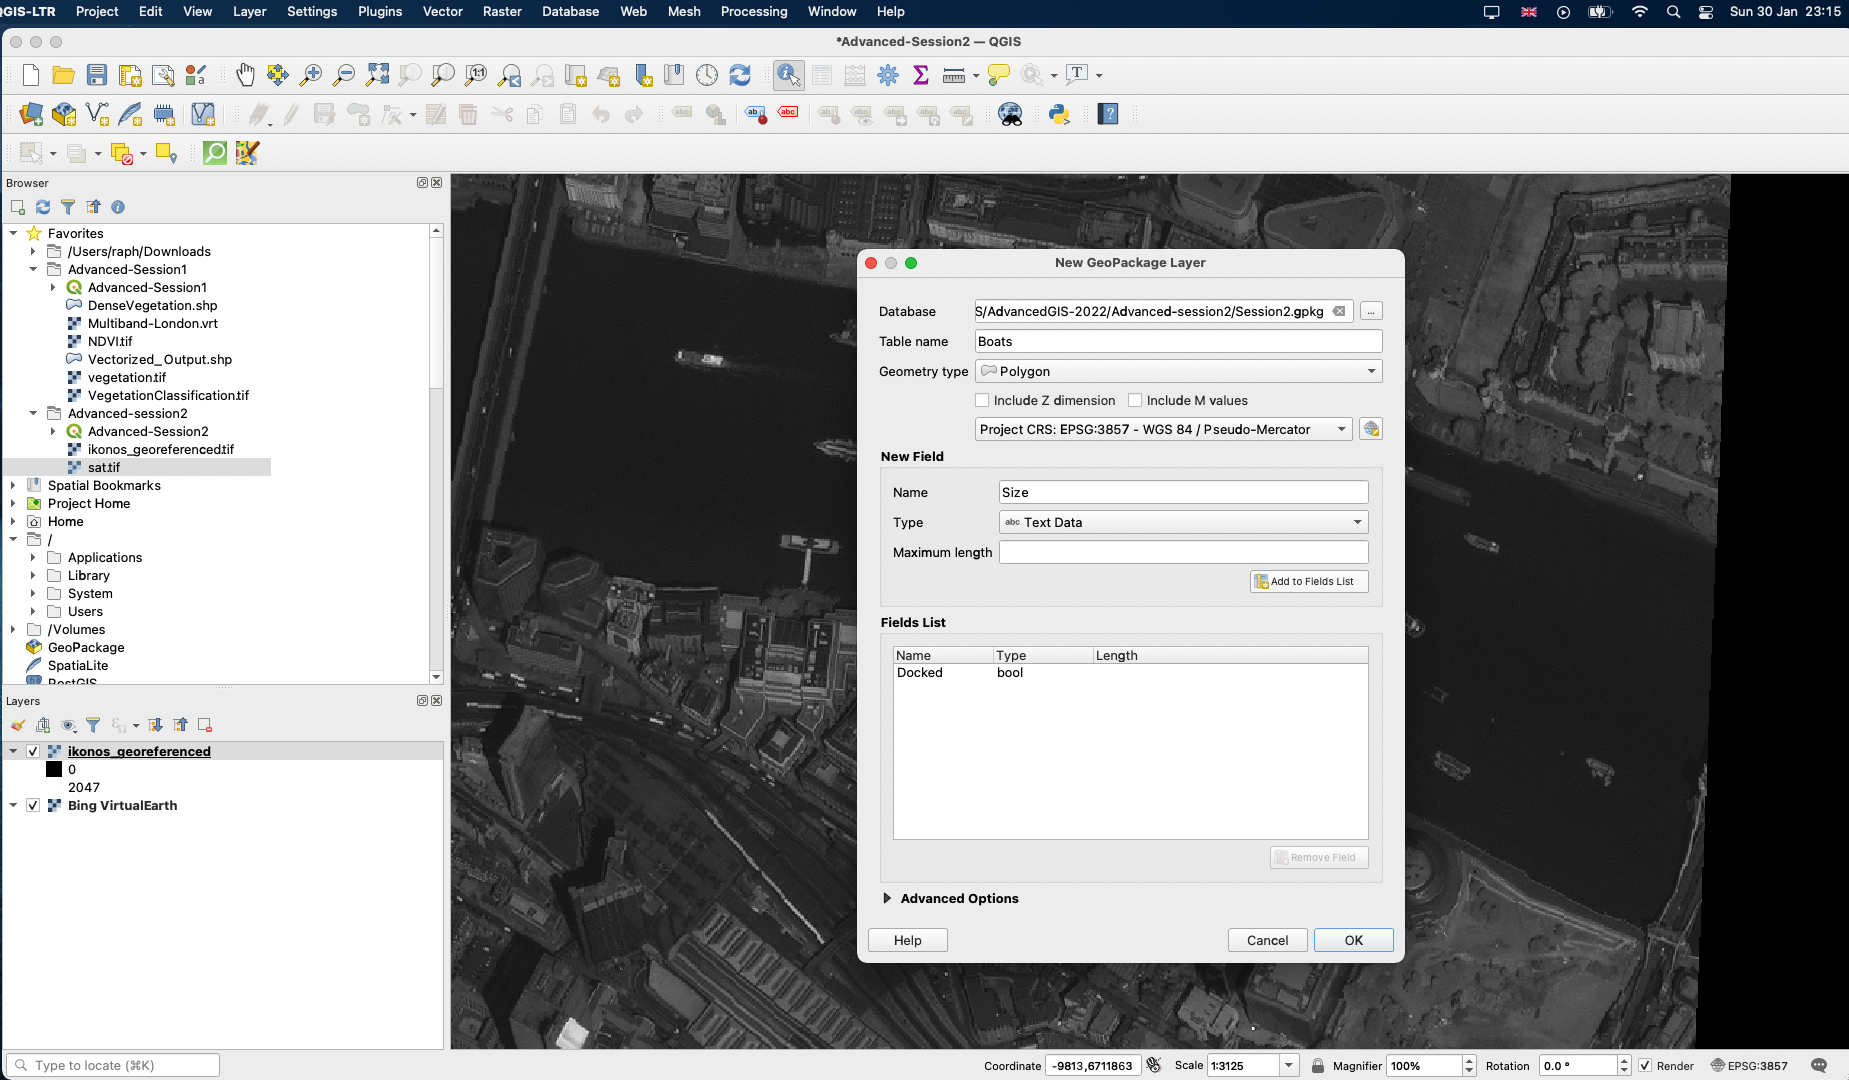
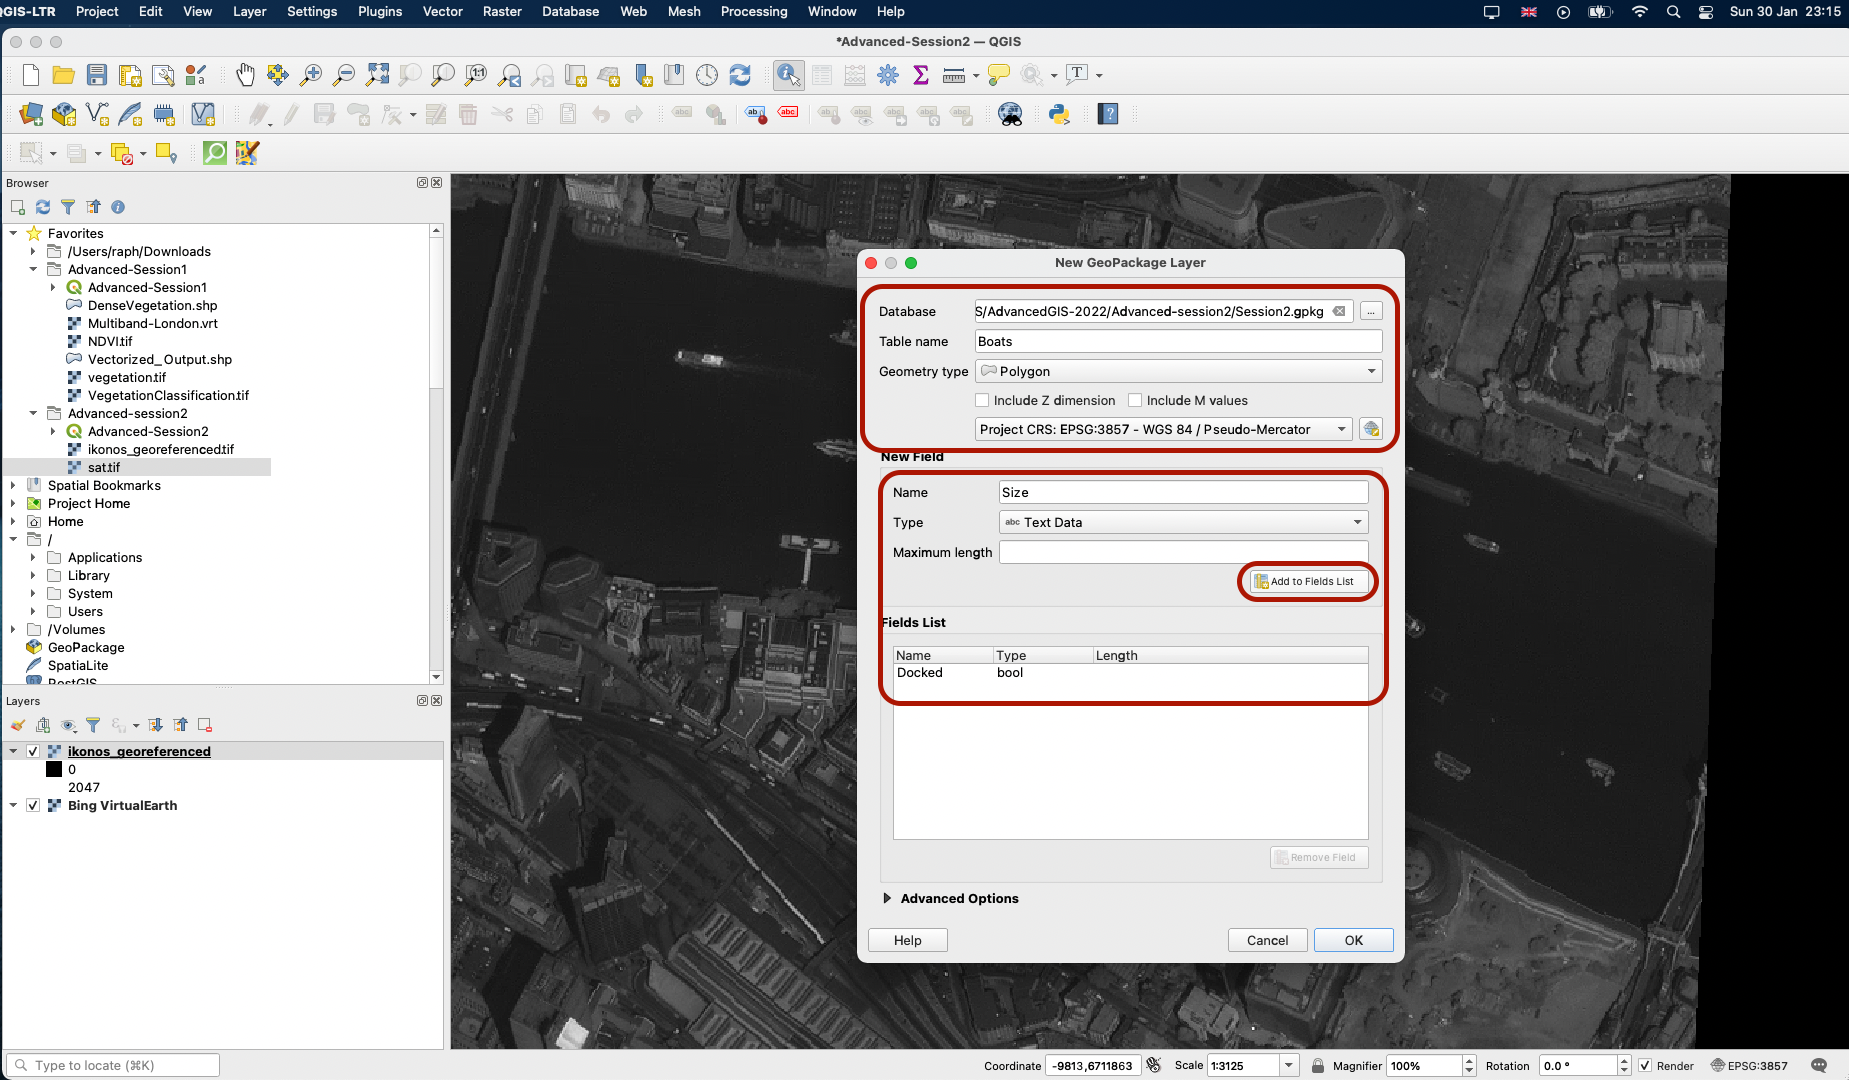
finalise tuto2

diff --git a/_posts/2022-01-23-advanced-tutorial2.md b/_posts/2022-01-23-advanced-tutorial2.md
@@ -184,43 +184,78 @@ Explore the angles of your image, turn your layer on and off to see whether your
 
 As a final step, let's illustrate how you can create a vector layer uding the digitizing toolbox. Let's imagine you want to create a dataset of the boats that were present on the Thames at the time the picture was taken. 
 
-Navigate to the coordinates (-8906,6710902) to find the large boat in the London Bridge area. In your top menu, click Layer > `Create new Geopackage layer`. Create a database location for your geopackage (I called mine `Session2.gpkg` and saved it in the `Advanced-Session2` folder), give the layer a name and select Polygons as the Geometry type. Make sure the CRS is set to the Project CRS (EPSG:3857). You can then define the architecture of your attribute table by adding new fields. For instance we can add:
+Navigate to the coordinates (-8906,6710902) to find the large boat in the London Bridge area. In your top menu, click Layer > `Create new Geopackage layer`. 
+
+
+![](../../../../docs/assets/images/adv2-18.png)
+
+&nbsp; 
+
+Create a database location for your geopackage (I called mine `Session2.gpkg` and saved it in the `Advanced-Session2` folder), give the layer a name and select Polygons as the Geometry type. Make sure the CRS is set to the Project CRS (EPSG:3857). You can then define the architecture of your attribute table by adding new fields. For instance we can add:
 - a field `Docked` of type `Boolean`, where we will indicate if the boat is docked or not, 
 - a field `Size` of type `Text data` where we will indicate the size of the boat (small, medium, large). 
 - a field `Year` of type `Date`, which we will set to `2008` for all of these boats as our picture dates from 2008.
 
 You can leave the `Maximum length` field empty each time and just press `Add to Fields list` to add your field to the table. 
 
-![](../../../../docs/assets/images/adv2-18.png)
+![](../../../../docs/assets/images/adv2-19.png)
+
+&nbsp; 
+
+Once you have the three fields ready, you can press OK. A new `Boats` layer is created and appears in your Layer list panel. In yur top View panel > Toolbars, make your that your `Digitizing toolbar` is ticked. You will spot in in your top toolbars area. 
+
+
+
+![](../../../../docs/assets/images/adv2-20.png)
+
+&nbsp; 
+
+You can start an editing session by pressing the yellow pencil button (you can now make edits to the dataset!) - make sure you have selected `Boats` in your layer list before pressing the pencil; this is the layer you want to work on. You can then click on the green blob button to `Add Polygon feature`.
+
+![](../../../../docs/assets/images/adv2-21.png)
+
+&nbsp; 
+
+Draw the contours of the boat by clicking on its vertices. 
+
+
+![](../../../../docs/assets/images/adv2-22.png)
+
+&nbsp; 
+
+When you've positioned your last point, right click and a pop up window will ask you to fill the values of the attribute table. Leave `fid` to Autogenerate, tick the `Docked` checkbox because this boat is indeed docked, set the size to `Large` and the date to 2018-01-01. 
+
+![](../../../../docs/assets/images/adv2-23.png)
+
+&nbsp; 
+
+Press OK; your polygon is now part of your dataset! Try to repeat the process with another boat. If you are not satisfied with the boundaries of one of your polygons, use the `Vertex tool` to edit the position of the points!
+
+![](../../../../docs/assets/images/adv2-25.png)
 
 &nbsp; 
 
 
-![](../../../../docs/assets/images/adv2-15.png)
+When you are done, you can press the yellow pencil button to close your editing session and save your changes.
+
+
+![](../../../../docs/assets/images/adv2-26.png)
+
+&nbsp; 
+Now if you open the attribute table of the `Boats` layer, you'll find that it contains the data you have just created and has generated unique id in the first column. You can always reopen the editing session and add more boats, edit or remove existing ones or their attribute table.
+
+![](../../../../docs/assets/images/adv2-27.png)
+
+&nbsp; 
 
 &nbsp; 
 
 
-![](../../../../docs/assets/images/adv2-15.png)
-
-&nbsp; 
-![](../../../../docs/assets/images/adv2-15.png)
-
-
+To go further, you can experiment digitizing other types of features (lines for roads, points). For example, you can digitize the position of certain trees in the parks, or of footpaths. You can also digitize features from the satellite imagery basemap, which is more recent than our georeferenced image.
 
 &nbsp; 
 
-&nbsp; 
-
-## IV. 
-
-
-&nbsp; 
-
-### 1. 
-
-&nbsp; 
-
+Congrats, you have successfully completed this tutorial!
 
 &nbsp; 
 
